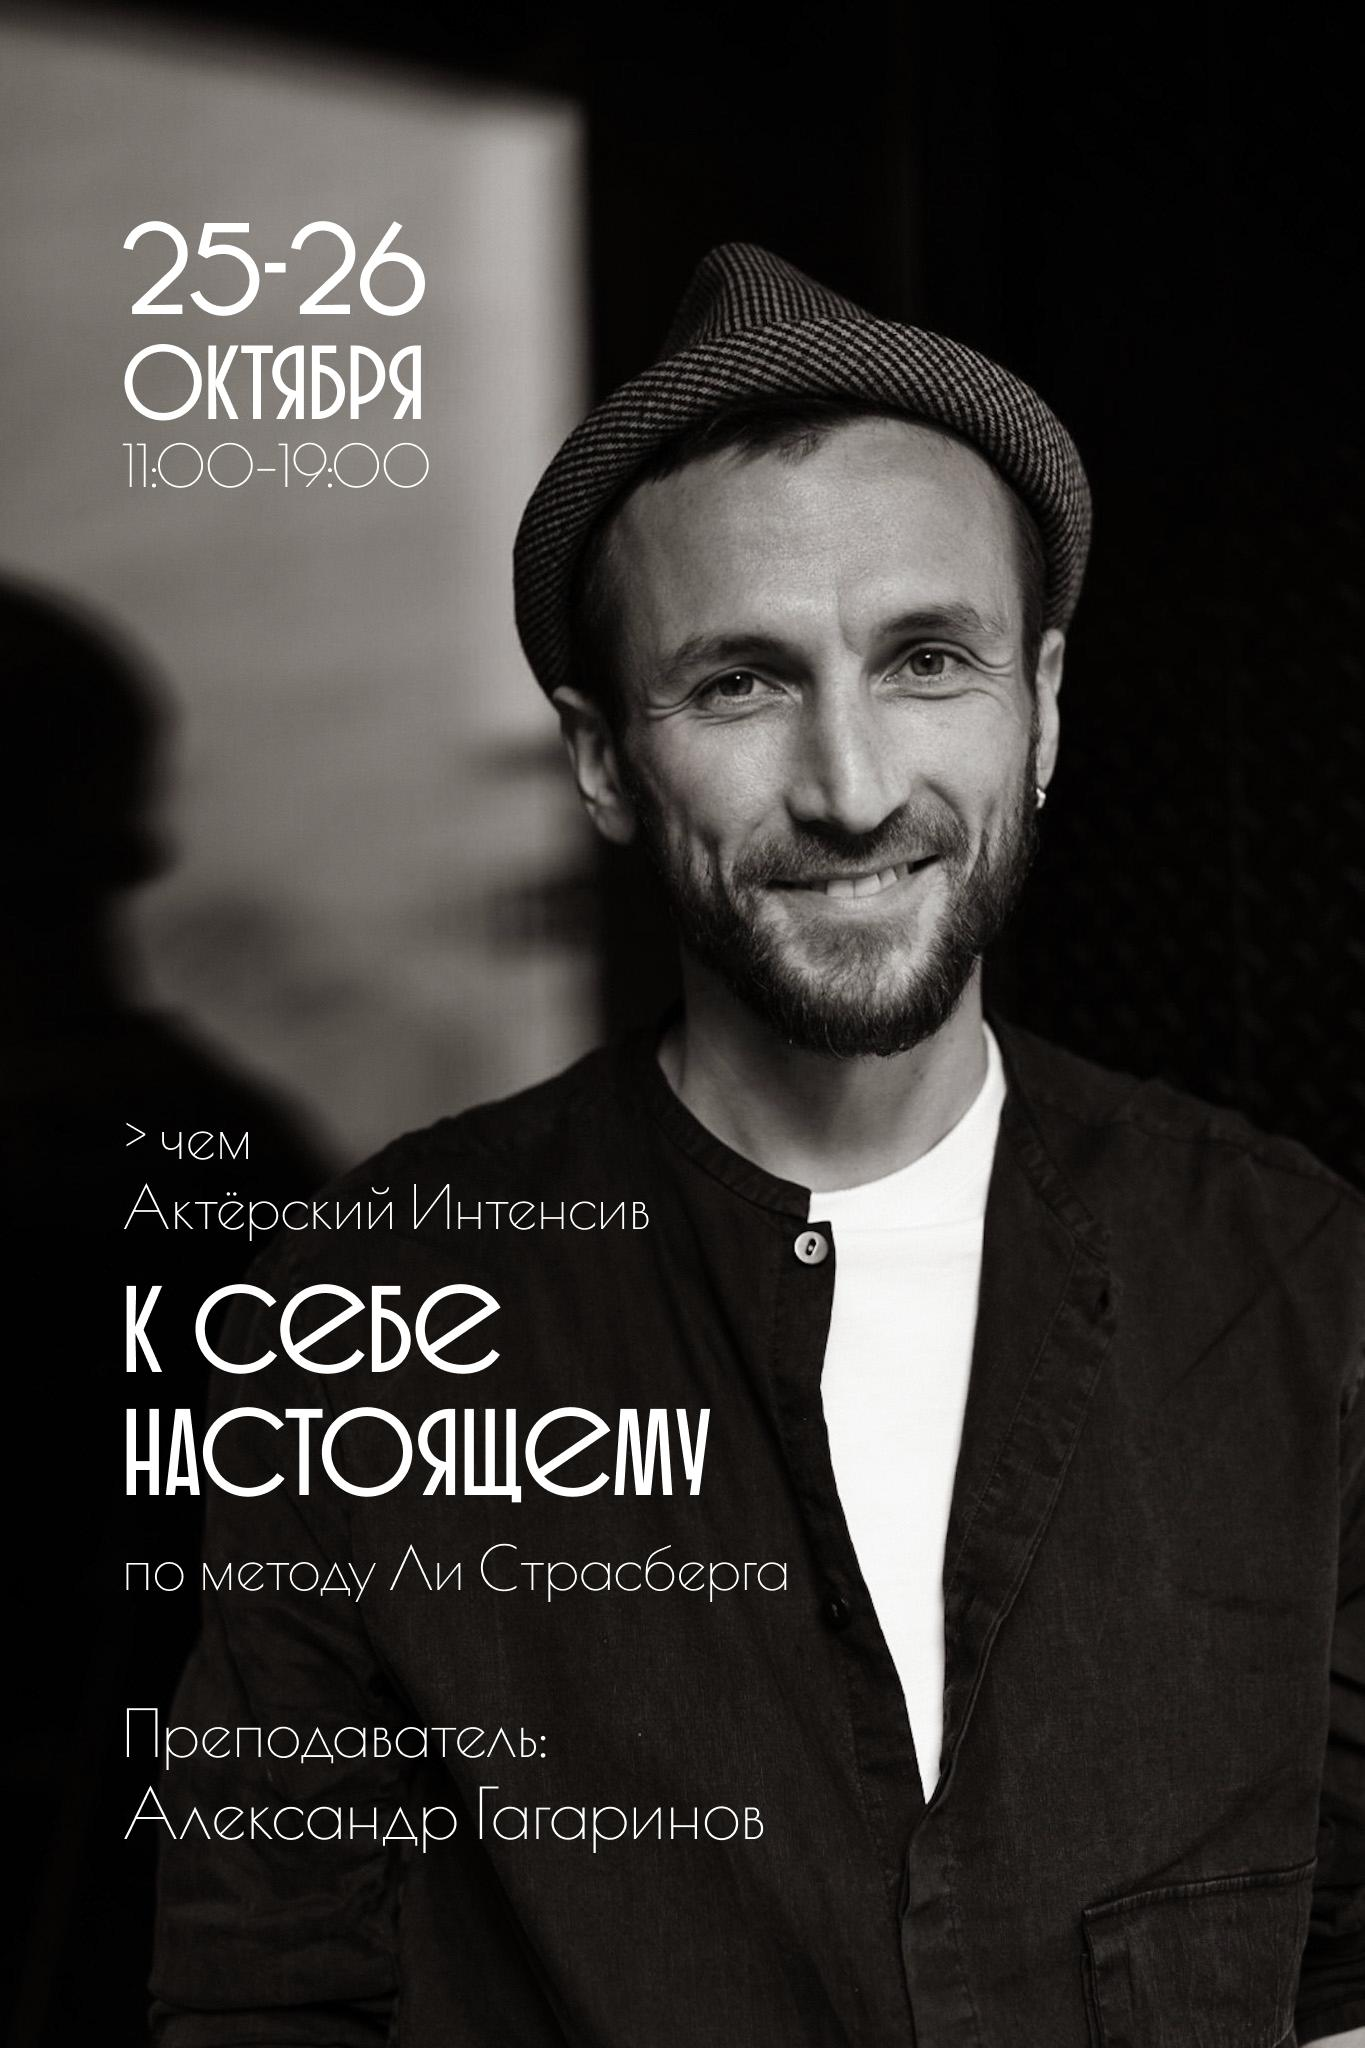
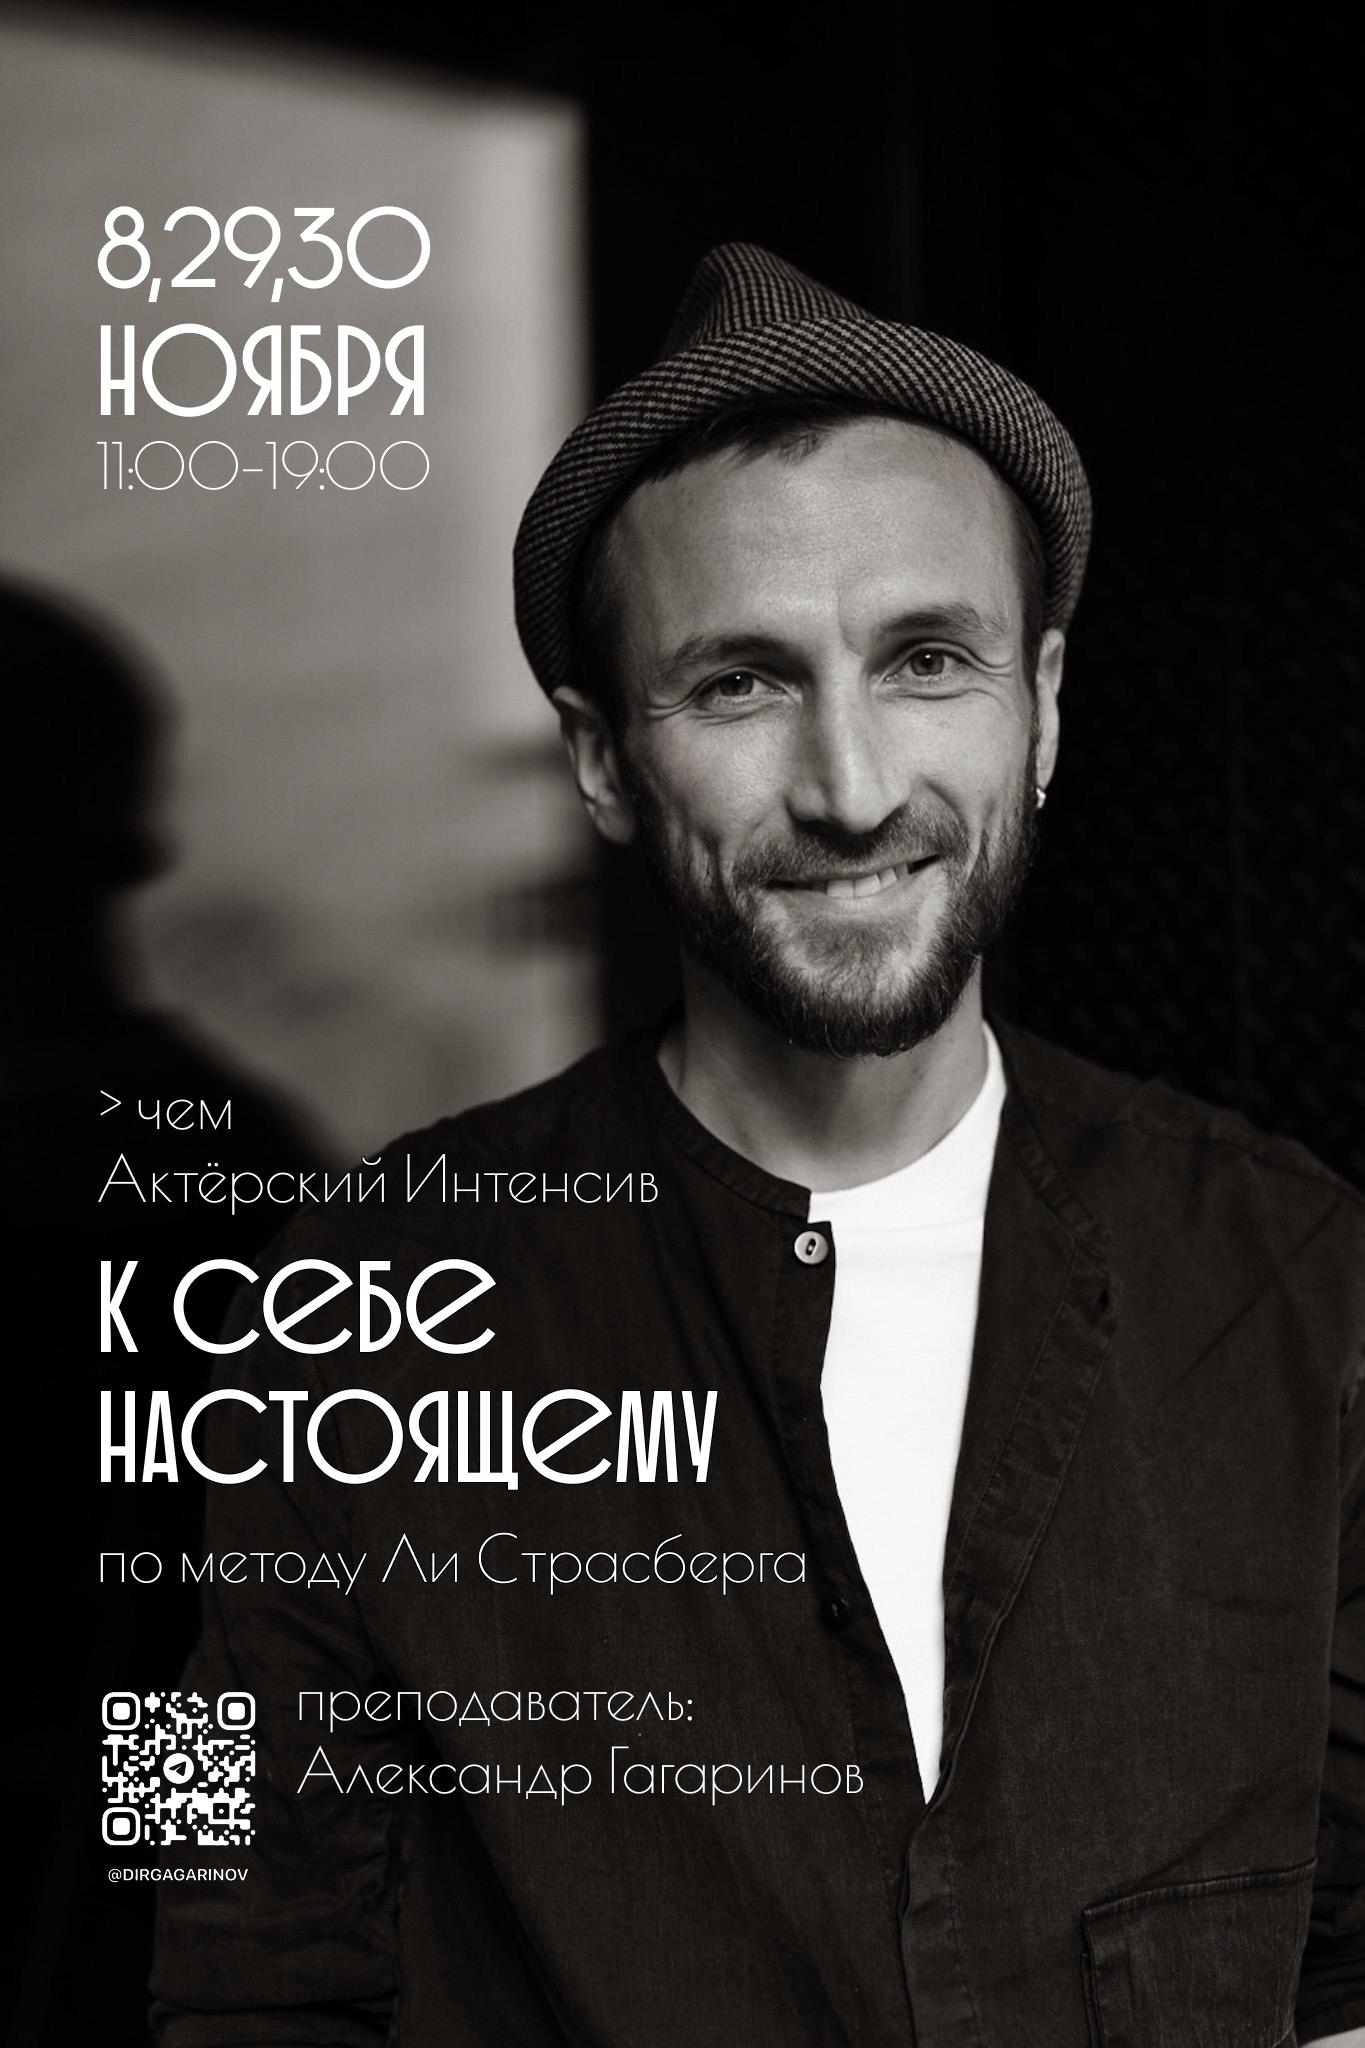
изменено:      content/1.index.md 	изменено:      content/3.oferta.md 	изменено:      content/4.otzivy.md 	изменено:      public/agagarinov_ru.jpg 	новый файл:    public/t_me_agagafilm_otzivy_new1.jpg 	новый файл:    public/t_me_agagafilm_otzivy_new2.jpg 	новый файл:    public/t_me_agagafilm_otzivy_

diff --git a/content/1.index.md b/content/1.index.md
@@ -17,7 +17,7 @@ seo:
 
 ## 🎭 ИНТЕНСИВ “К СЕБЕ НАСТОЯЩЕМУ”
  по методу Ли Страсберга  
-📅 25–26 октября 2025   
+📅 8,29,30 ноября 2025   
 🕚 11:00–19:00  
 📍 Комфортный лофт недалеко от центра Москвы  
 
@@ -32,7 +32,7 @@ seo:
 Как Аль Пачино применял метод в кадре вовремя съёмок?  
 Эти и другие ключи к тому, как быть настоящим.
 
-💰 10 000₽  
+💰 5 000₽  
 💥 Спец.предложение - от 2 чел  
 ‼ Количество мест ограничено!  
 

diff --git a/content/3.oferta.md b/content/3.oferta.md
@@ -42,7 +42,7 @@ seo:
 
 ### Стоимость и порядок оплаты
 
-5.1. Стоимость участия: ___ (заполняется).
+5.1. Стоимость участия: 5000 рублей 00 копеек.
 
 5.2. Форма оплаты — перевод по реквизитам ИП Гагаринов Александр Сергеевич (банковская карта, QR-код, иные способы по согласованию).
 

diff --git a/content/4.otzivy.md b/content/4.otzivy.md
@@ -9,6 +9,12 @@ seo:
 
 # Отзывы
 
+![К себе настоящему](/t_me_agagafilm_otzivy_new1.jpg)
+
+![К себе настоящему](/t_me_agagafilm_otzivy_new2.jpg)
+
+![К себе настоящему](/t_me_agagafilm_otzivy_new3.jpg)
+
 ![К себе настоящему](/t_me_agagafilm_otzivy9.PNG.jpg)
 
 ![К себе настоящему](/t_me_agagafilm_otzivy8.PNG.jpg)
